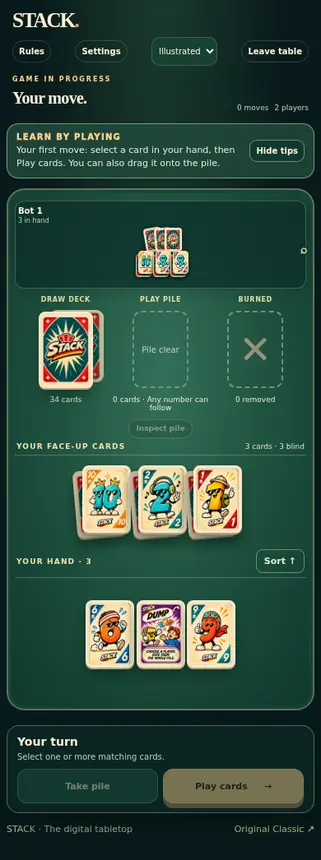
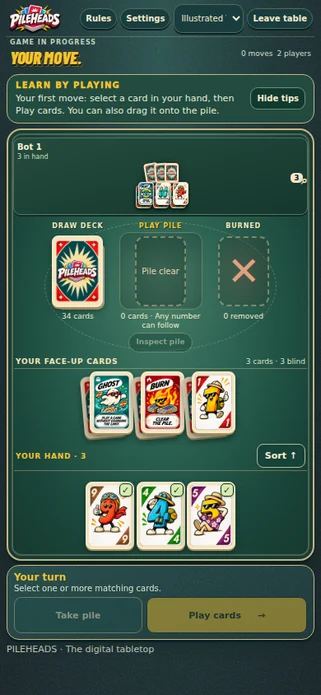
fix(brand): publish authentic Pileheads gameplay previews and compact small-phone header

diff --git a/apps/web/app/page.tsx b/apps/web/app/page.tsx
@@ -66,7 +66,7 @@ export default function HomePage() {
       <div className={styles.actionFan + " " + polish.actionFan}>{actions.map((name,i)=><Card key={name} name={name} className={styles["fan"+i]}/>)}</div>
     </div></section>
     <section className={styles.online} id="how-to-play"><div className={styles.split + " " + polish.onlineLayout}>
-      <div className={styles.gamePreview + " " + polish.gameShowcase}><div className={styles.previewBurst} aria-hidden="true"/><figure className={styles.phone + " " + polish.gameDevice}><picture><source media="(min-width: 851px)" srcSet="/stack-media/stack-home-gameplay-desktop-v2.webp" width={731} height={620}/><source media="(min-width: 601px)" srcSet="/stack-media/stack-home-gameplay-wide-v2.webp" width={507} height={600}/><img src="/stack-media/stack-home-gameplay-v2.webp" alt="Actual PILEHEADS browser game with the Illustrated V3 deck, showing cards in hand, draw deck and turn controls" width={321} height={860} loading="lazy" decoding="async"/></picture></figure><div className={styles.previewLabel}>Actual gameplay<br/><small>Illustrated V3 deck</small></div></div>
+      <div className={styles.gamePreview + " " + polish.gameShowcase}><div className={styles.previewBurst} aria-hidden="true"/><figure className={styles.phone + " " + polish.gameDevice}><picture><source media="(min-width: 851px)" srcSet="/stack-media/stack-home-gameplay-desktop-v2.webp" width={731} height={491}/><source media="(min-width: 601px)" srcSet="/stack-media/stack-home-gameplay-wide-v2.webp" width={507} height={605}/><img src="/stack-media/stack-home-gameplay-v2.webp" alt="Actual PILEHEADS browser game with the Illustrated V3 deck, showing cards in hand, draw deck and turn controls" width={321} height={695} loading="lazy" decoding="async"/></picture></figure><div className={styles.previewLabel}>Actual gameplay<br/><small>Illustrated V3 deck</small></div></div>
       <div className={polish.onlineCopy}><p className={styles.kicker}>No download needed</p><h2>Play online.<br/>Anytime, anywhere<span>.</span></h2><p>Try PILEHEADS in your browser. Challenge the bots or invite your friends to a private table.</p><div className={styles.buttons}><Button href="/play">Play now →</Button><a className={styles.textLink} href="/pilehead/playtest.html">Learn the rules</a></div></div><img className={polish.beachMascot} src="/stack-media/stack-home-burn-beach.webp" alt="" width={277} height={235} loading="lazy"/>
     </div></section>
     <section className={styles.physical} id="physical"><div className={styles.split + " " + polish.physicalLayout}>

diff --git a/apps/web/app/tabletop-layout.css b/apps/web/app/tabletop-layout.css
@@ -167,3 +167,11 @@
 .game-table-shell .hand-tool[aria-pressed="true"] { background:#f6c32c; color:#172421; }
 .game-table-shell .hand-utilities { flex-wrap:wrap; gap:4px; }
 .game-table-shell .playing-card[data-extends-selection="true"] .card-availability-mark { background:#d7e9ab; }
+
+/* The wider Pileheads wordmark must not consume an extra header row on small phones. */
+@media (max-width:380px) {
+  .game-table-shell.game-shell .game-header .stack-site-brand img { width:50px; height:auto; max-height:30px; }
+  .game-table-shell .game-header:not(:has(.room-code)) .game-head-actions { gap:3px; flex-wrap:nowrap; }
+  .game-table-shell .game-header:not(:has(.room-code)) .game-head-actions .exit-button { padding-inline:5px; }
+  .game-table-shell .game-header:not(:has(.room-code)) .theme-control select { max-width:76px; }
+}

diff --git a/docs/PILEHEADS-REBRAND.md b/docs/PILEHEADS-REBRAND.md
@@ -2,4 +2,4 @@
 
 The approved primary PILEHEADS raster logo, brand kit, updated card face copies and directional card back originate from the [review library](https://drive.google.com/drive/folders/1UFx-WZxWTABDM7_MBJhSOZM4UDtek96K). The game rules and source card-face masters are unchanged. Public navigation uses `/`; `/stack`, `/pilehead/`, API routes, local-storage keys, CSS class names and asset paths remain backward-compatible. Package display names use `@pileheads/*`. The historical Characters preference now uses a compact-resolution copy of current no-logo faces; Original geometric and Studio alternatives retain their distinct art. The legacy Render hostname remains until a new hostname/domain is configured. Historical docs, identifiers and release references may contain STACK. Public copy uses PLAY THE ODDS (provisional replacement slogan).
 
-Do not treat review packaging as a manufacturer-ready print file. Refresh homepage gameplay captures from the real browser after rebranding. Verify the deployed SHA, public pages, accessible logo labels, image assets and online readiness before claiming the release is live.
+Do not treat review packaging as a manufacturer-ready print file. Homepage gameplay previews are real browser captures from the rebranded CI build, in mobile, tablet and desktop sizes. Verify the deployed SHA, public pages, accessible logo labels, image assets and online readiness before claiming the release is live.
